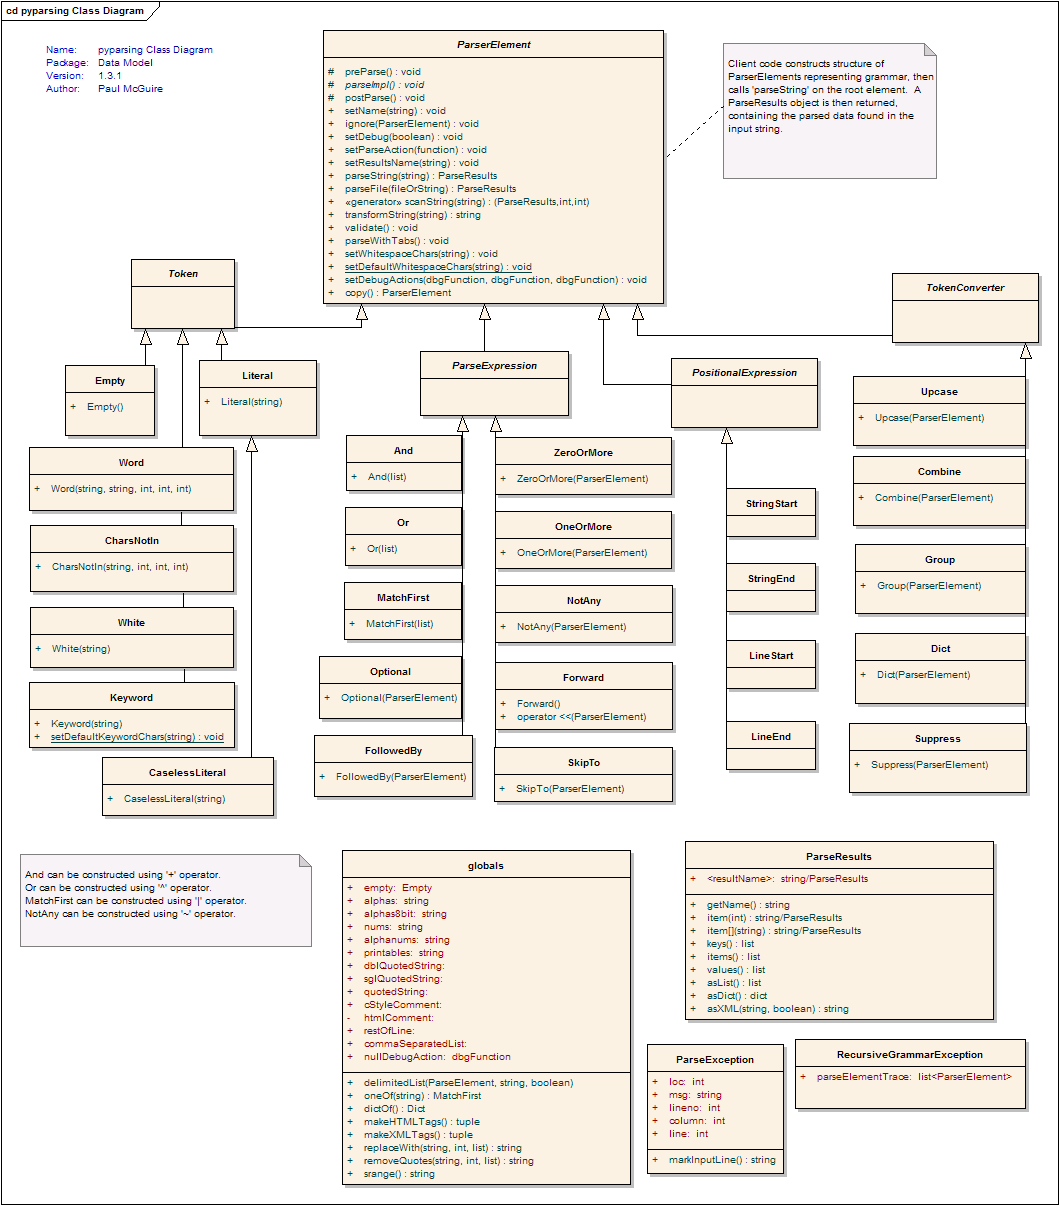
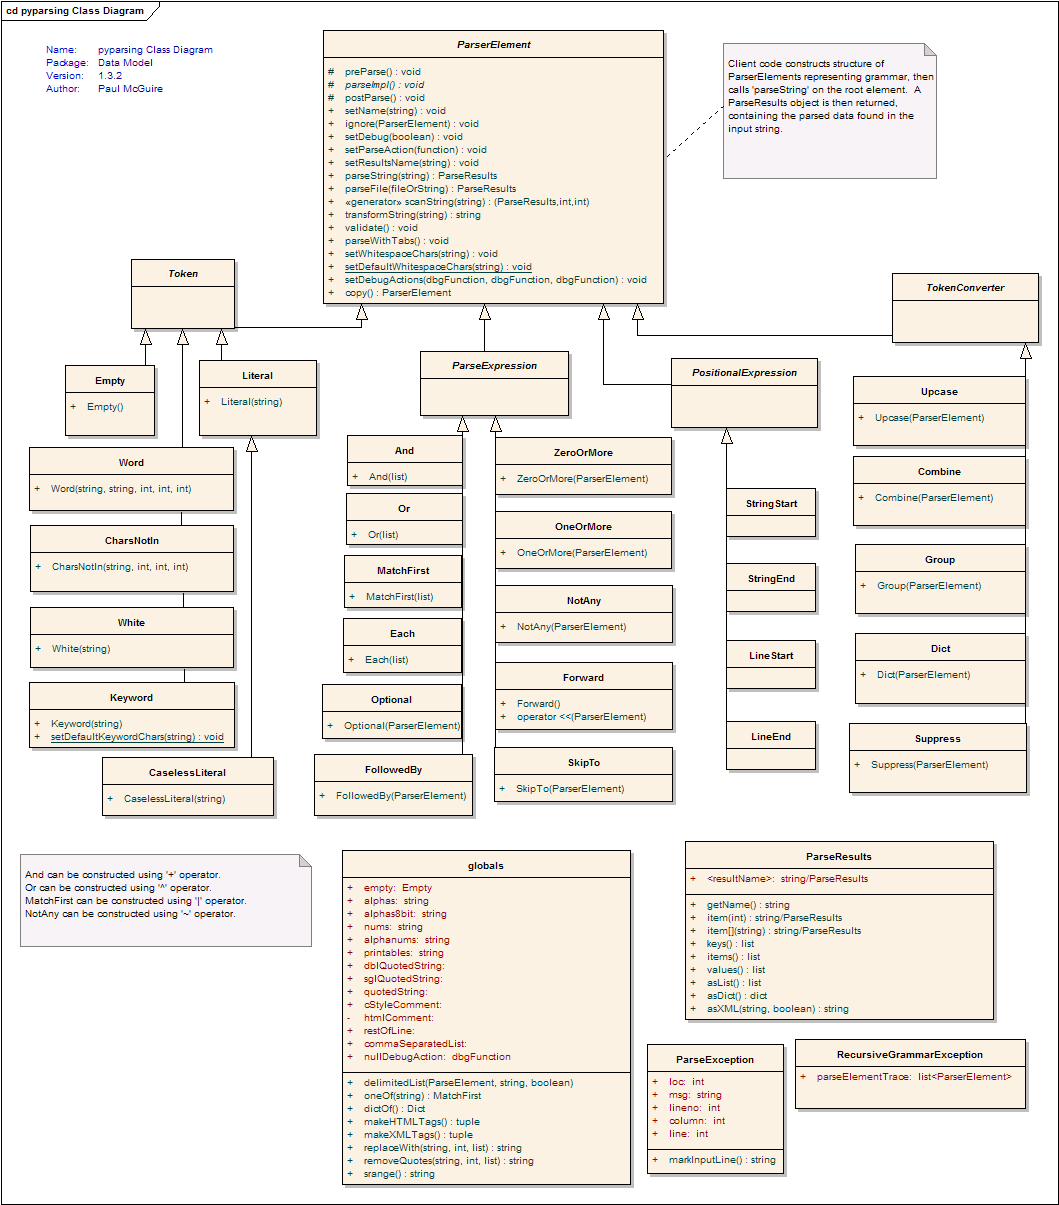
Version 1.3.2 files
git-svn-id: https://pyparsing.svn.sourceforge.net/svnroot/pyparsing@39 9bf210a0-9d2d-494c-87cf-cfb32e7dff7b

Changed region(s): [[0.2805, 0.3685, 0.4674, 0.7062]]

diff --git a/src/pyparsing.py b/src/pyparsing.py
@@ -59,8 +59,8 @@ The pyparsing module handles some of the problems that are typically vexing when
  - quoted strings
  - embedded comments
 """
-__version__ = "1.3.1"
-__versionTime__ = "10 June 2005 08:43"
+__version__ = "1.3.2"
+__versionTime__ = "24 July 2005 17:37"
 __author__ = "Paul McGuire <ptmcg@users.sourceforge.net>"
 
 import string
@@ -700,6 +700,18 @@ class ParserElement(object):
             other = Literal( other )
         return other ^ self
 
+    def __and__(self, other ):
+        """Implementation of & operator - returns Each"""
+        if isinstance( other, basestring ):
+            other = Literal( other )
+        return Each( [ self, other ] )
+
+    def __rand__(self, other ):
+        """Implementation of right-& operator"""
+        if isinstance( other, basestring ):
+            other = Literal( other )
+        return other & self
+
     def __invert__( self ):
         """Implementation of ~ operator - returns NotAny"""
         return NotAny( self )
@@ -960,6 +972,8 @@ class Word(Token):
         else:
             self.bodyCharsOrig = initChars
             self.bodyChars = _str2dict(initChars)
+            
+        self.maxSpecified = max > 0
 
         self.minLen = min
 
@@ -991,8 +1005,14 @@ class Word(Token):
         maxloc = min( maxloc, len(instring) )
         while loc < maxloc and instring[loc] in bodychars:
             loc += 1
-
+            
+        throwException = False
         if loc - start < self.minLen:
+            throwException = True
+        if self.maxSpecified and loc < len(instring) and instring[loc] in bodychars:
+            throwException = True
+
+        if throwException:
             #~ raise ParseException, ( instring, loc, self.errmsg )
             exc = self.myException
             exc.loc = loc
@@ -1336,7 +1356,7 @@ class ParseExpression(ParserElement):
 
     def setResultsName( self, name, listAllMatches=False ):
         ret = super(ParseExpression,self).setResultsName(name,listAllMatches)
-        ret.saveAsList = True
+        #~ ret.saveAsList = True
         return ret
     
     def validate( self, validateTrace=[] ):
@@ -1351,7 +1371,7 @@ class And(ParseExpression):
        Expressions may be separated by whitespace.
        May be constructed using the '+' operator.
     """
-    def __init__( self, exprs, savelist = False ):
+    def __init__( self, exprs, savelist = True ):
         super(And,self).__init__(exprs, savelist)
         self.mayReturnEmpty = True
         for e in exprs:
@@ -1465,7 +1485,8 @@ class MatchFirst(ParseExpression):
         maxExcLoc = -1
         for e in self.exprs:
             try:
-                return e.parse( instring, loc, doActions )
+                ret = e.parse( instring, loc, doActions )
+                return ret
             except ParseException, err:
                 if err.loc > maxExcLoc:
                     maxException = err
@@ -1491,6 +1512,86 @@ class MatchFirst(ParseExpression):
             
         if self.strRepr is None:
             self.strRepr = "{" + " | ".join( [ _ustr(e) for e in self.exprs ] ) + "}"
+        
+        return self.strRepr
+    
+    def checkRecursion( self, parseElementList ):
+        subRecCheckList = parseElementList[:] + [ self ]
+        for e in self.exprs:
+            e.checkRecursion( subRecCheckList )
+
+
+class Each(ParseExpression):
+    """Requires all given ParseExpressions to be found, but in any order.
+       Expressions may be separated by whitespace.
+       May be constructed using the '&' operator.
+    """
+    def __init__( self, exprs, savelist = True ):
+        super(Each,self).__init__(exprs, savelist)
+        self.mayReturnEmpty = True
+        for e in exprs:
+            if not e.mayReturnEmpty:
+                self.mayReturnEmpty = False
+                break
+        self.skipWhitespace = True
+        self.optionals = [ e.expr for e in exprs if isinstance(e,Optional) ]
+        self.multioptionals = [ e.expr for e in exprs if isinstance(e,ZeroOrMore) ]
+        self.multirequired = [ e.expr for e in exprs if isinstance(e,OneOrMore) ]
+        self.required = [ e for e in exprs if not isinstance(e,(Optional,ZeroOrMore,OneOrMore)) ]
+        self.required += self.multirequired
+
+    def parseImpl( self, instring, loc, doActions=True ):
+        tmpLoc = loc
+        tmpReqd = self.required[:]
+        tmpOpt  = self.optionals[:]
+        matchOrder = []
+
+        keepMatching = True
+        while keepMatching:
+            tmpExprs = tmpReqd + tmpOpt + self.multioptionals + self.multirequired
+            failed = []
+            for e in tmpExprs:
+                try:
+                    tmpLoc = e.tryParse( instring, tmpLoc )
+                except ParseException:
+                    failed.append(e)
+                else:
+                    matchOrder.append(e)
+                    if e in tmpReqd:
+                        tmpReqd.remove(e)
+                    elif e in tmpOpt:
+                        tmpOpt.remove(e)
+            if len(failed) == len(tmpExprs):
+                keepMatching = False
+        
+        if tmpReqd:
+            missing = ", ".join( [ str(e) for e in tmpReqd ] )
+            raise ParseException(instring,loc,"Missing one or more required elements (%s)" % missing )
+
+        resultlist = []
+        for e in matchOrder:
+            loc,results = e.parse(instring,loc,doActions)
+            resultlist.append(results)
+            
+        finalResults = ParseResults([])
+        for r in resultlist:
+            dups = {}
+            for k in r.keys():
+                if k in finalResults.keys():
+                    tmp = ParseResults(finalResults[k])
+                    tmp += ParseResults(r[k])
+                    dups[k] = tmp
+            finalResults += ParseResults(r)
+            for k,v in dups.items():
+                finalResults[k] = v
+        return loc, finalResults
+
+    def __str__( self ):
+        if hasattr(self,"name"):
+            return self.name
+            
+        if self.strRepr is None:
+            self.strRepr = "{" + " & ".join( [ _ustr(e) for e in self.exprs ] ) + "}"
         
         return self.strRepr
     
@@ -1881,7 +1982,10 @@ class Dict(TokenConverter):
             else:
                 dictvalue = tok.copy() #ParseResults(i)
                 del dictvalue[0]
-                tokenlist[ikey] = (dictvalue,i)
+                if len(dictvalue)!= 1 or (isinstance(dictvalue,ParseResults) and dictvalue.keys()):
+                    tokenlist[ikey] = (dictvalue,i)
+                else:
+                    tokenlist[ikey] = (dictvalue[0],i)
 
         if self.resultsName:
             return [ tokenlist ]
